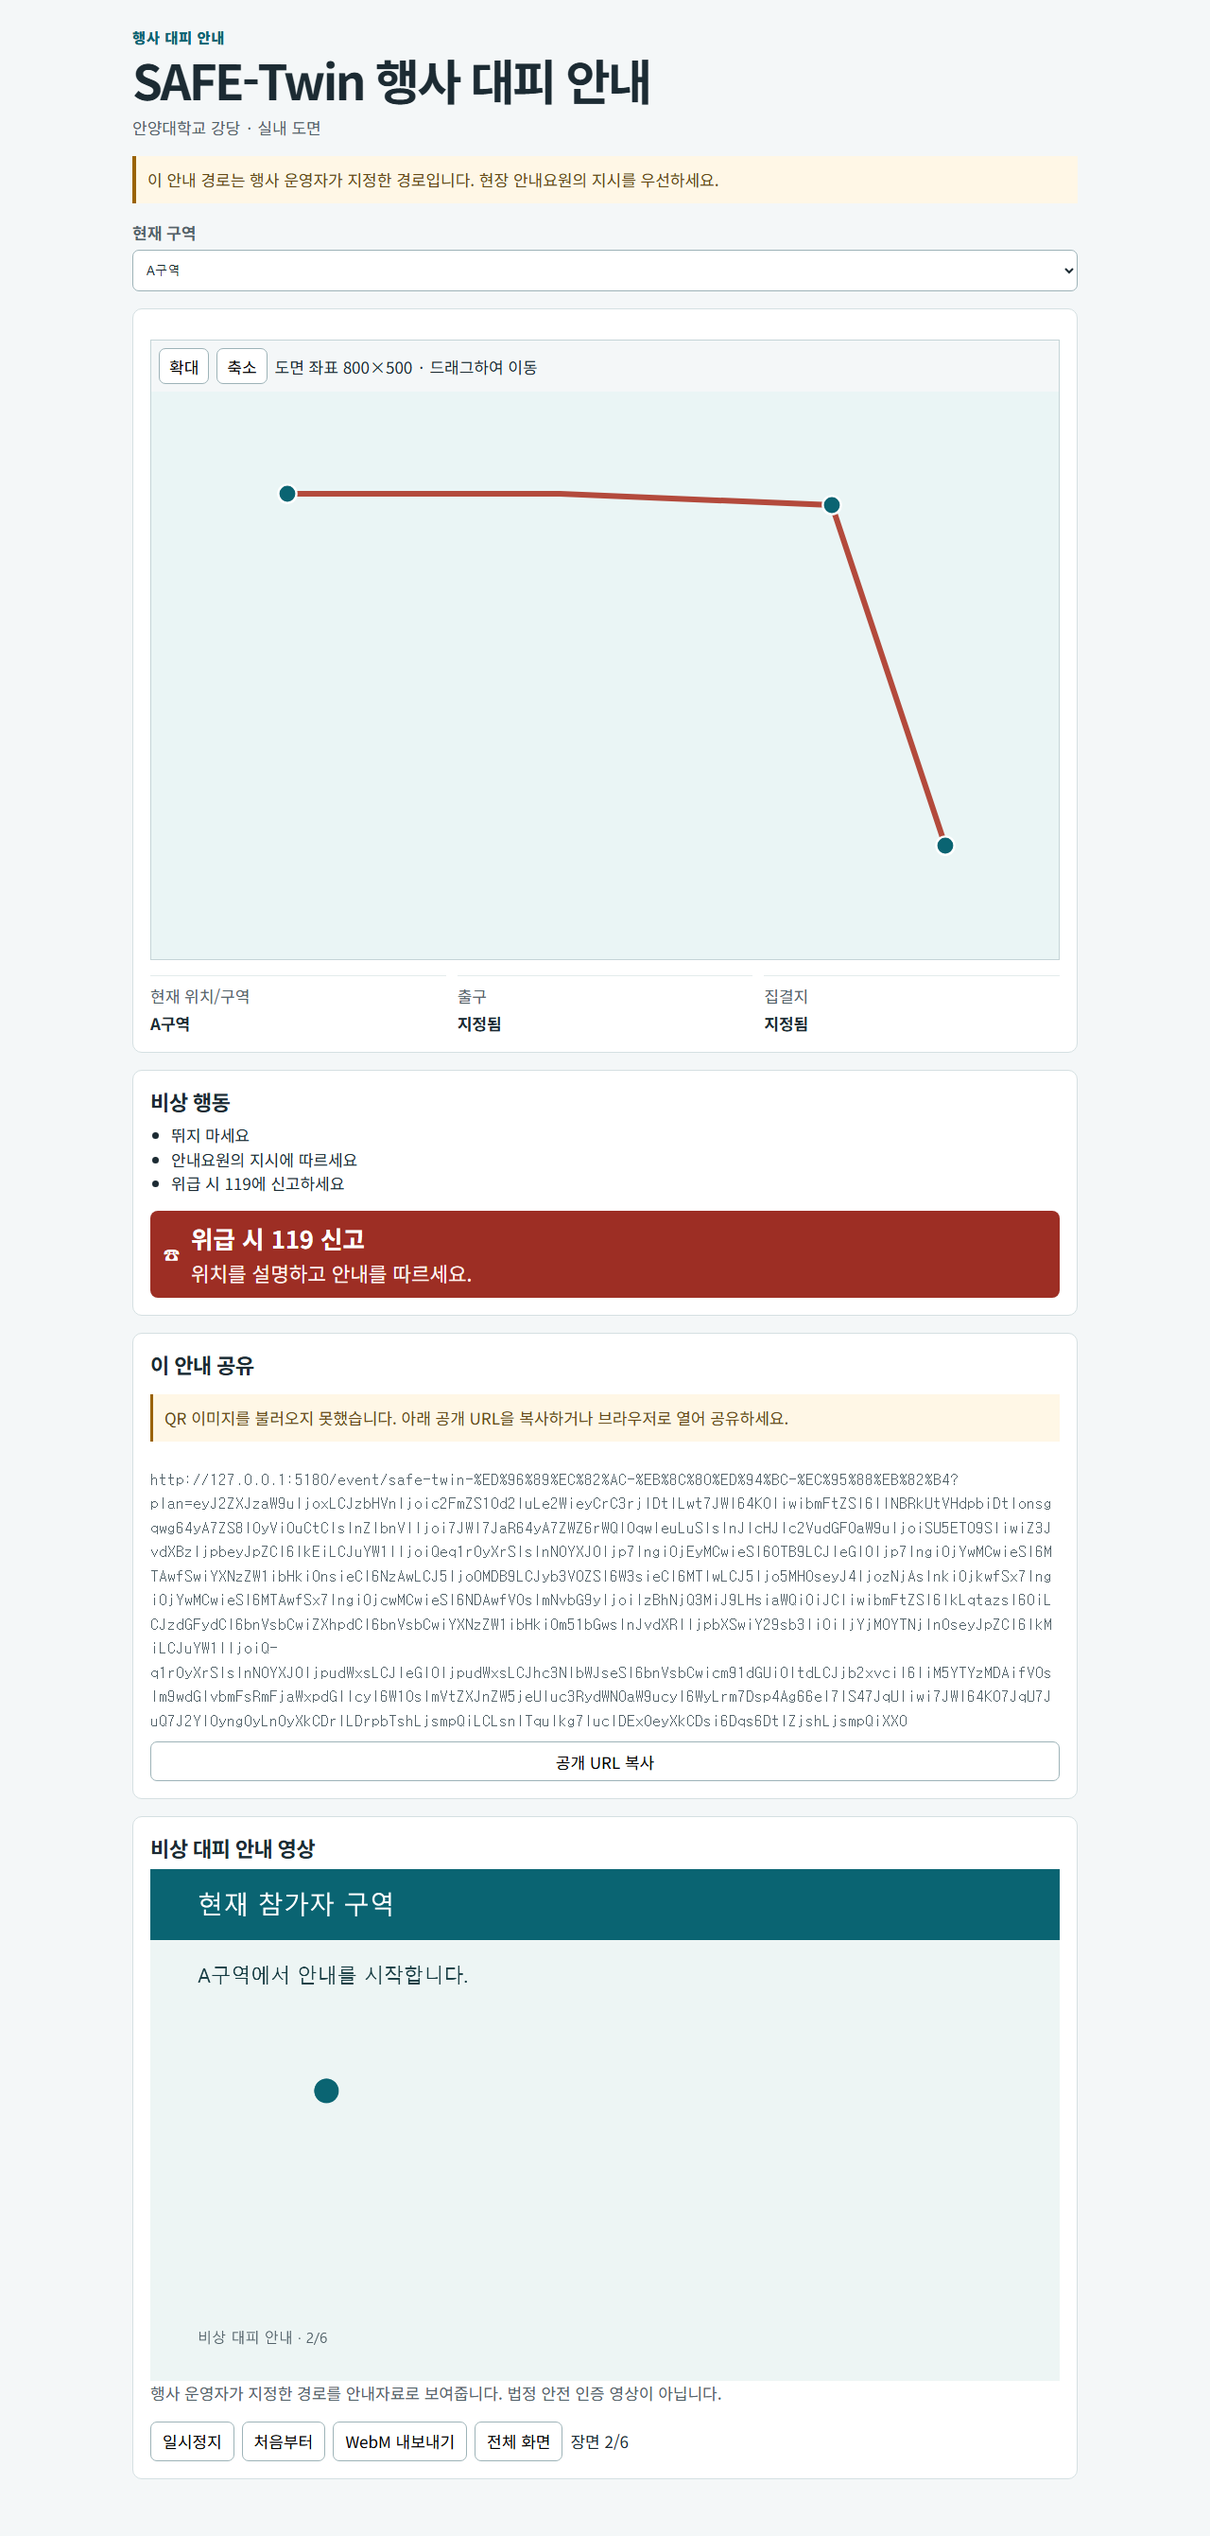
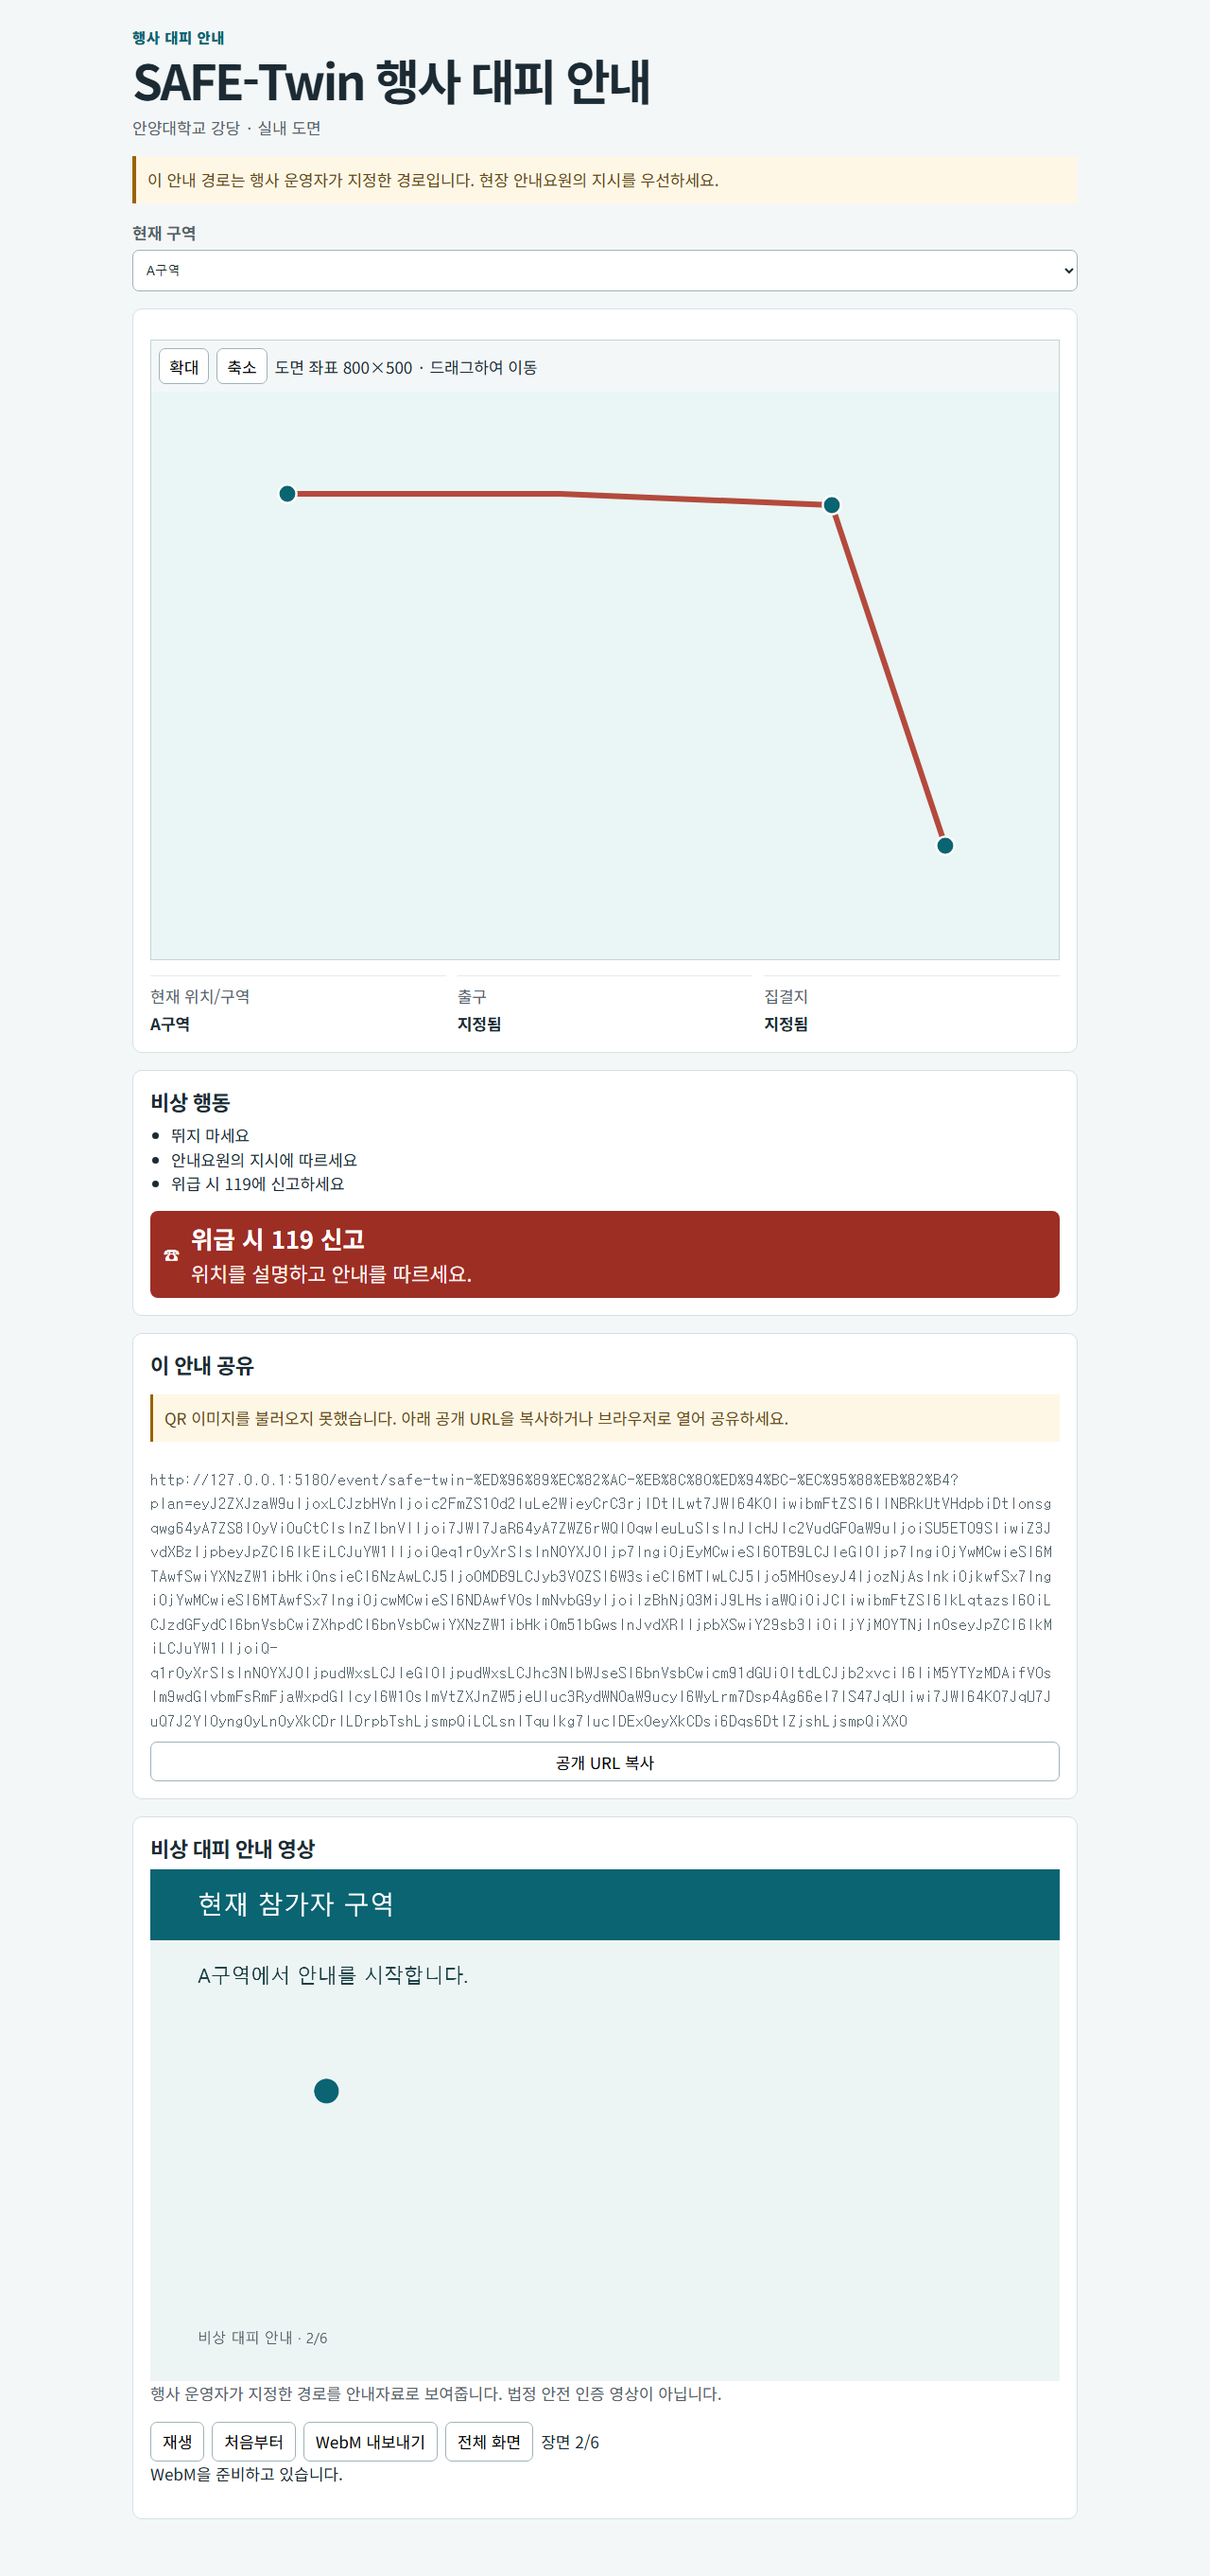
Verify nonempty WebM event export

diff --git a/tests/e2e/v2-event-public.spec.ts b/tests/e2e/v2-event-public.spec.ts
@@ -12,5 +12,13 @@ test("public event page exposes share QR and advances deterministic video scenes
   await page.waitForTimeout(3500);
   const after = await page.getByTestId("event-video-canvas").getAttribute("data-scene-index");
   expect(after).not.toBe(before);
+  await page.getByRole("button", { name: "일시정지" }).click();
+  const downloadPromise = page.waitForEvent("download", { timeout: 10000 });
+  await page.getByRole("button", { name: "WebM 내보내기" }).click();
+  const download = await downloadPromise;
+  const downloadPath = await download.path();
+  expect(downloadPath).toBeTruthy();
+  const fileSize = (await import("node:fs/promises")).stat(downloadPath as string).then((stats) => stats.size);
+  expect(await fileSize).toBeGreaterThan(0);
   await page.screenshot({ path: "artifacts/evals/v2/screenshots/event-public-video-1280.png", fullPage: true });
 });
